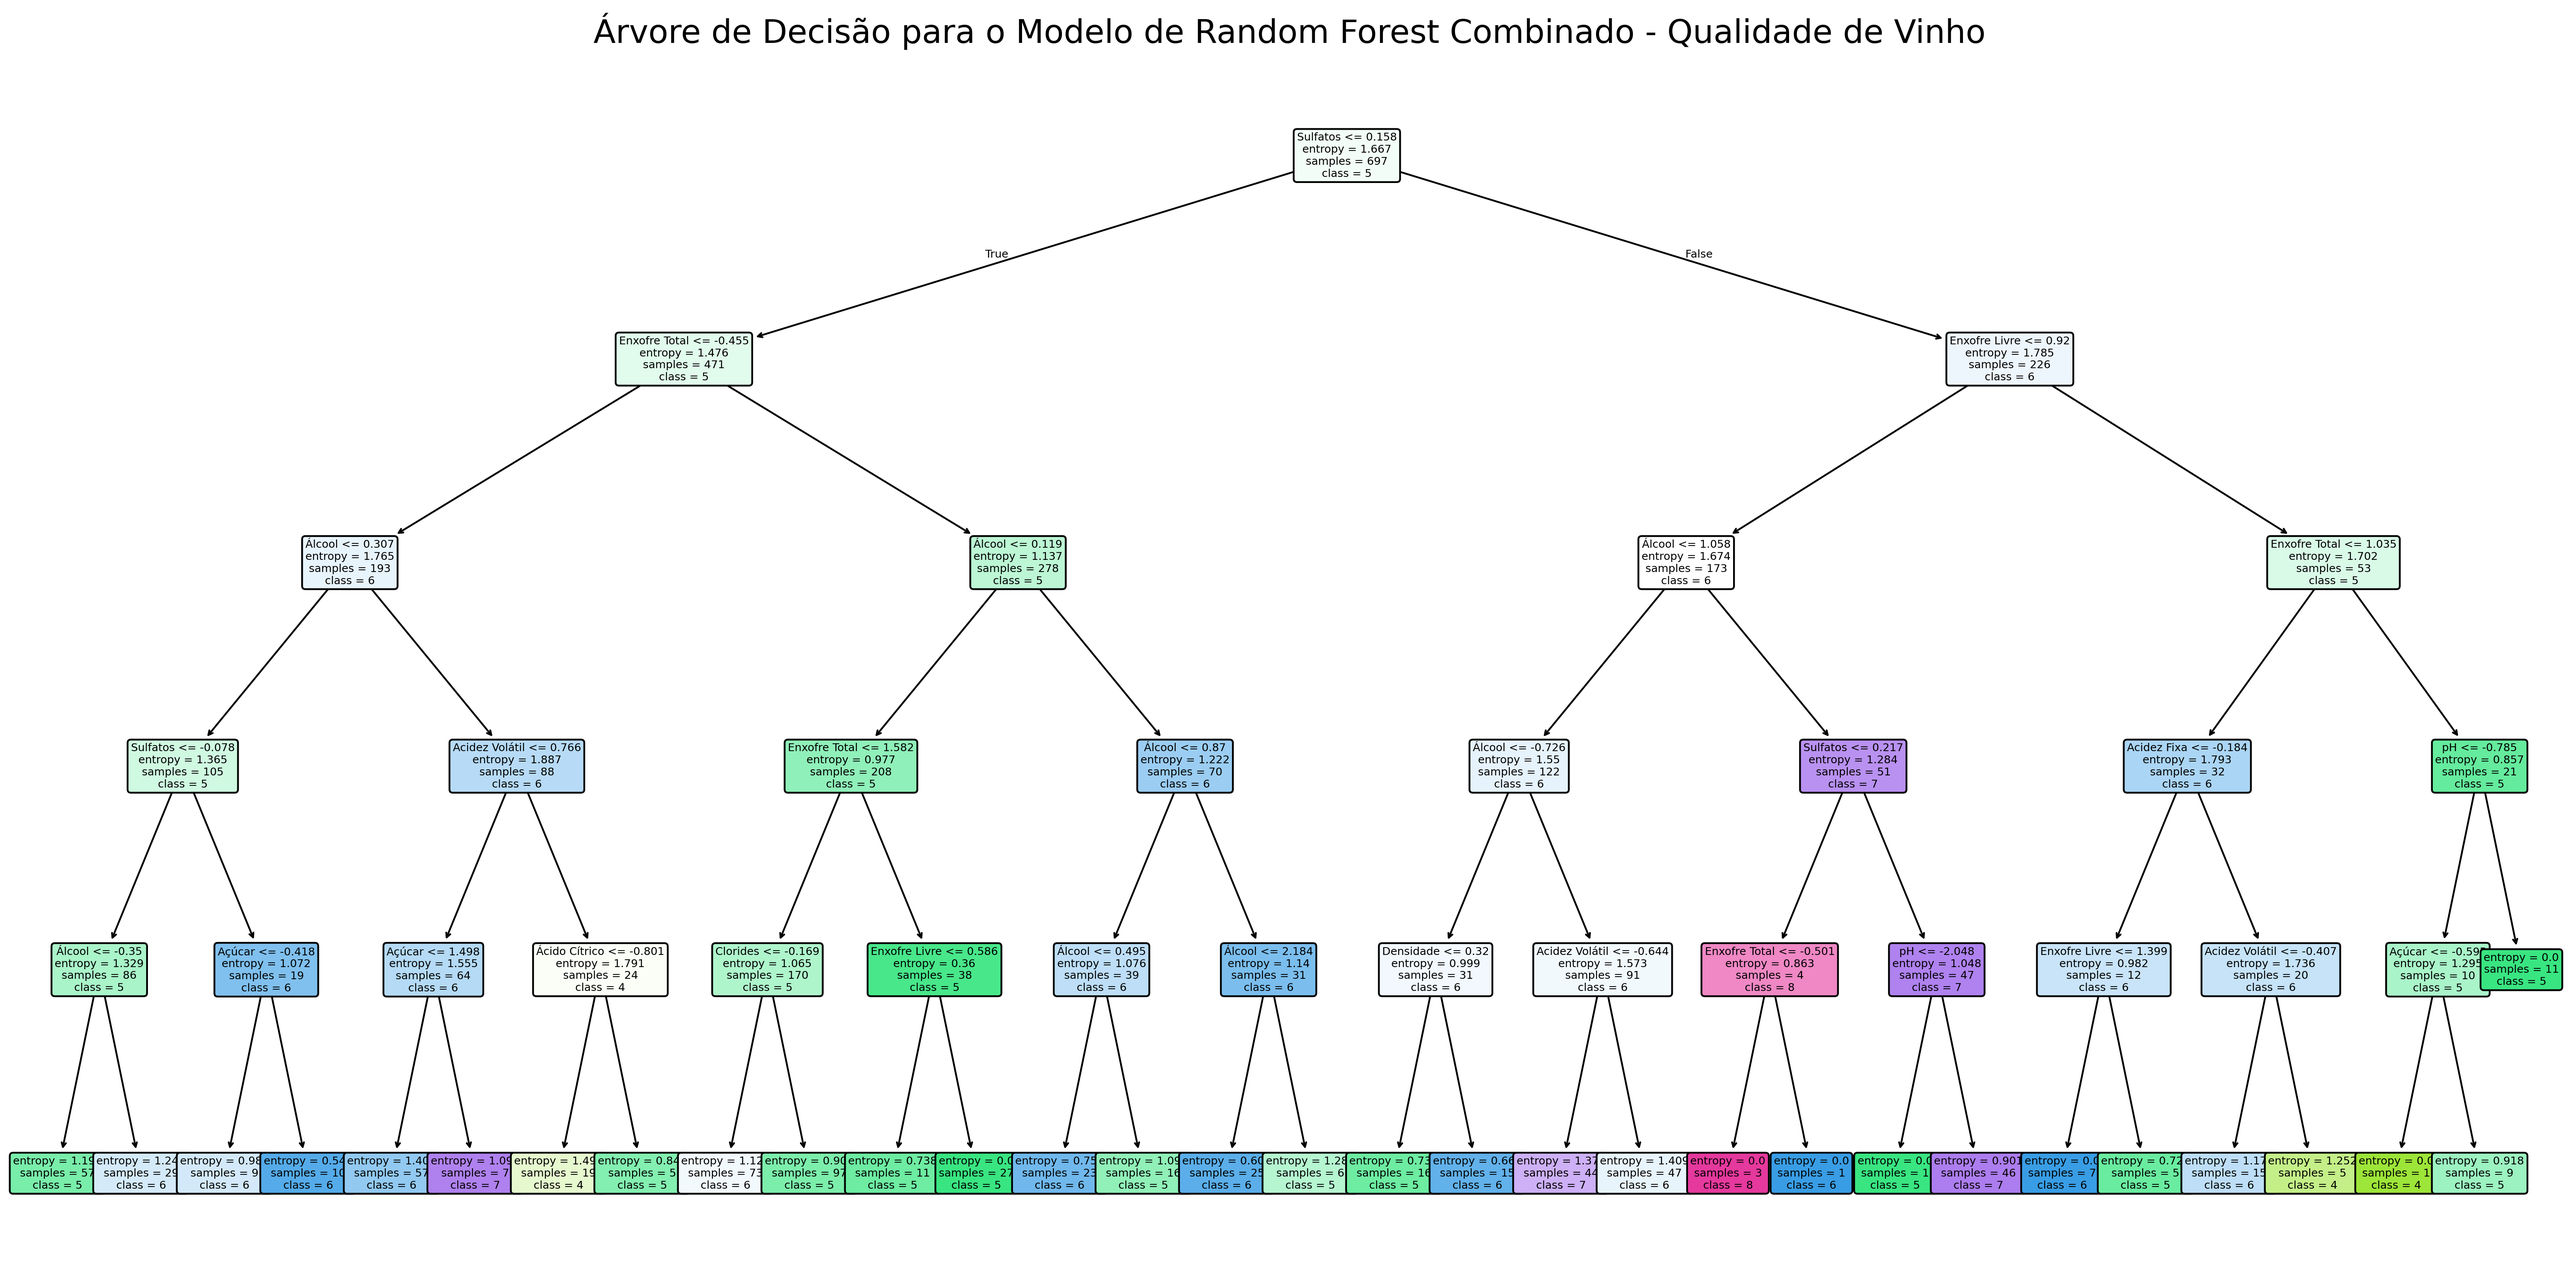
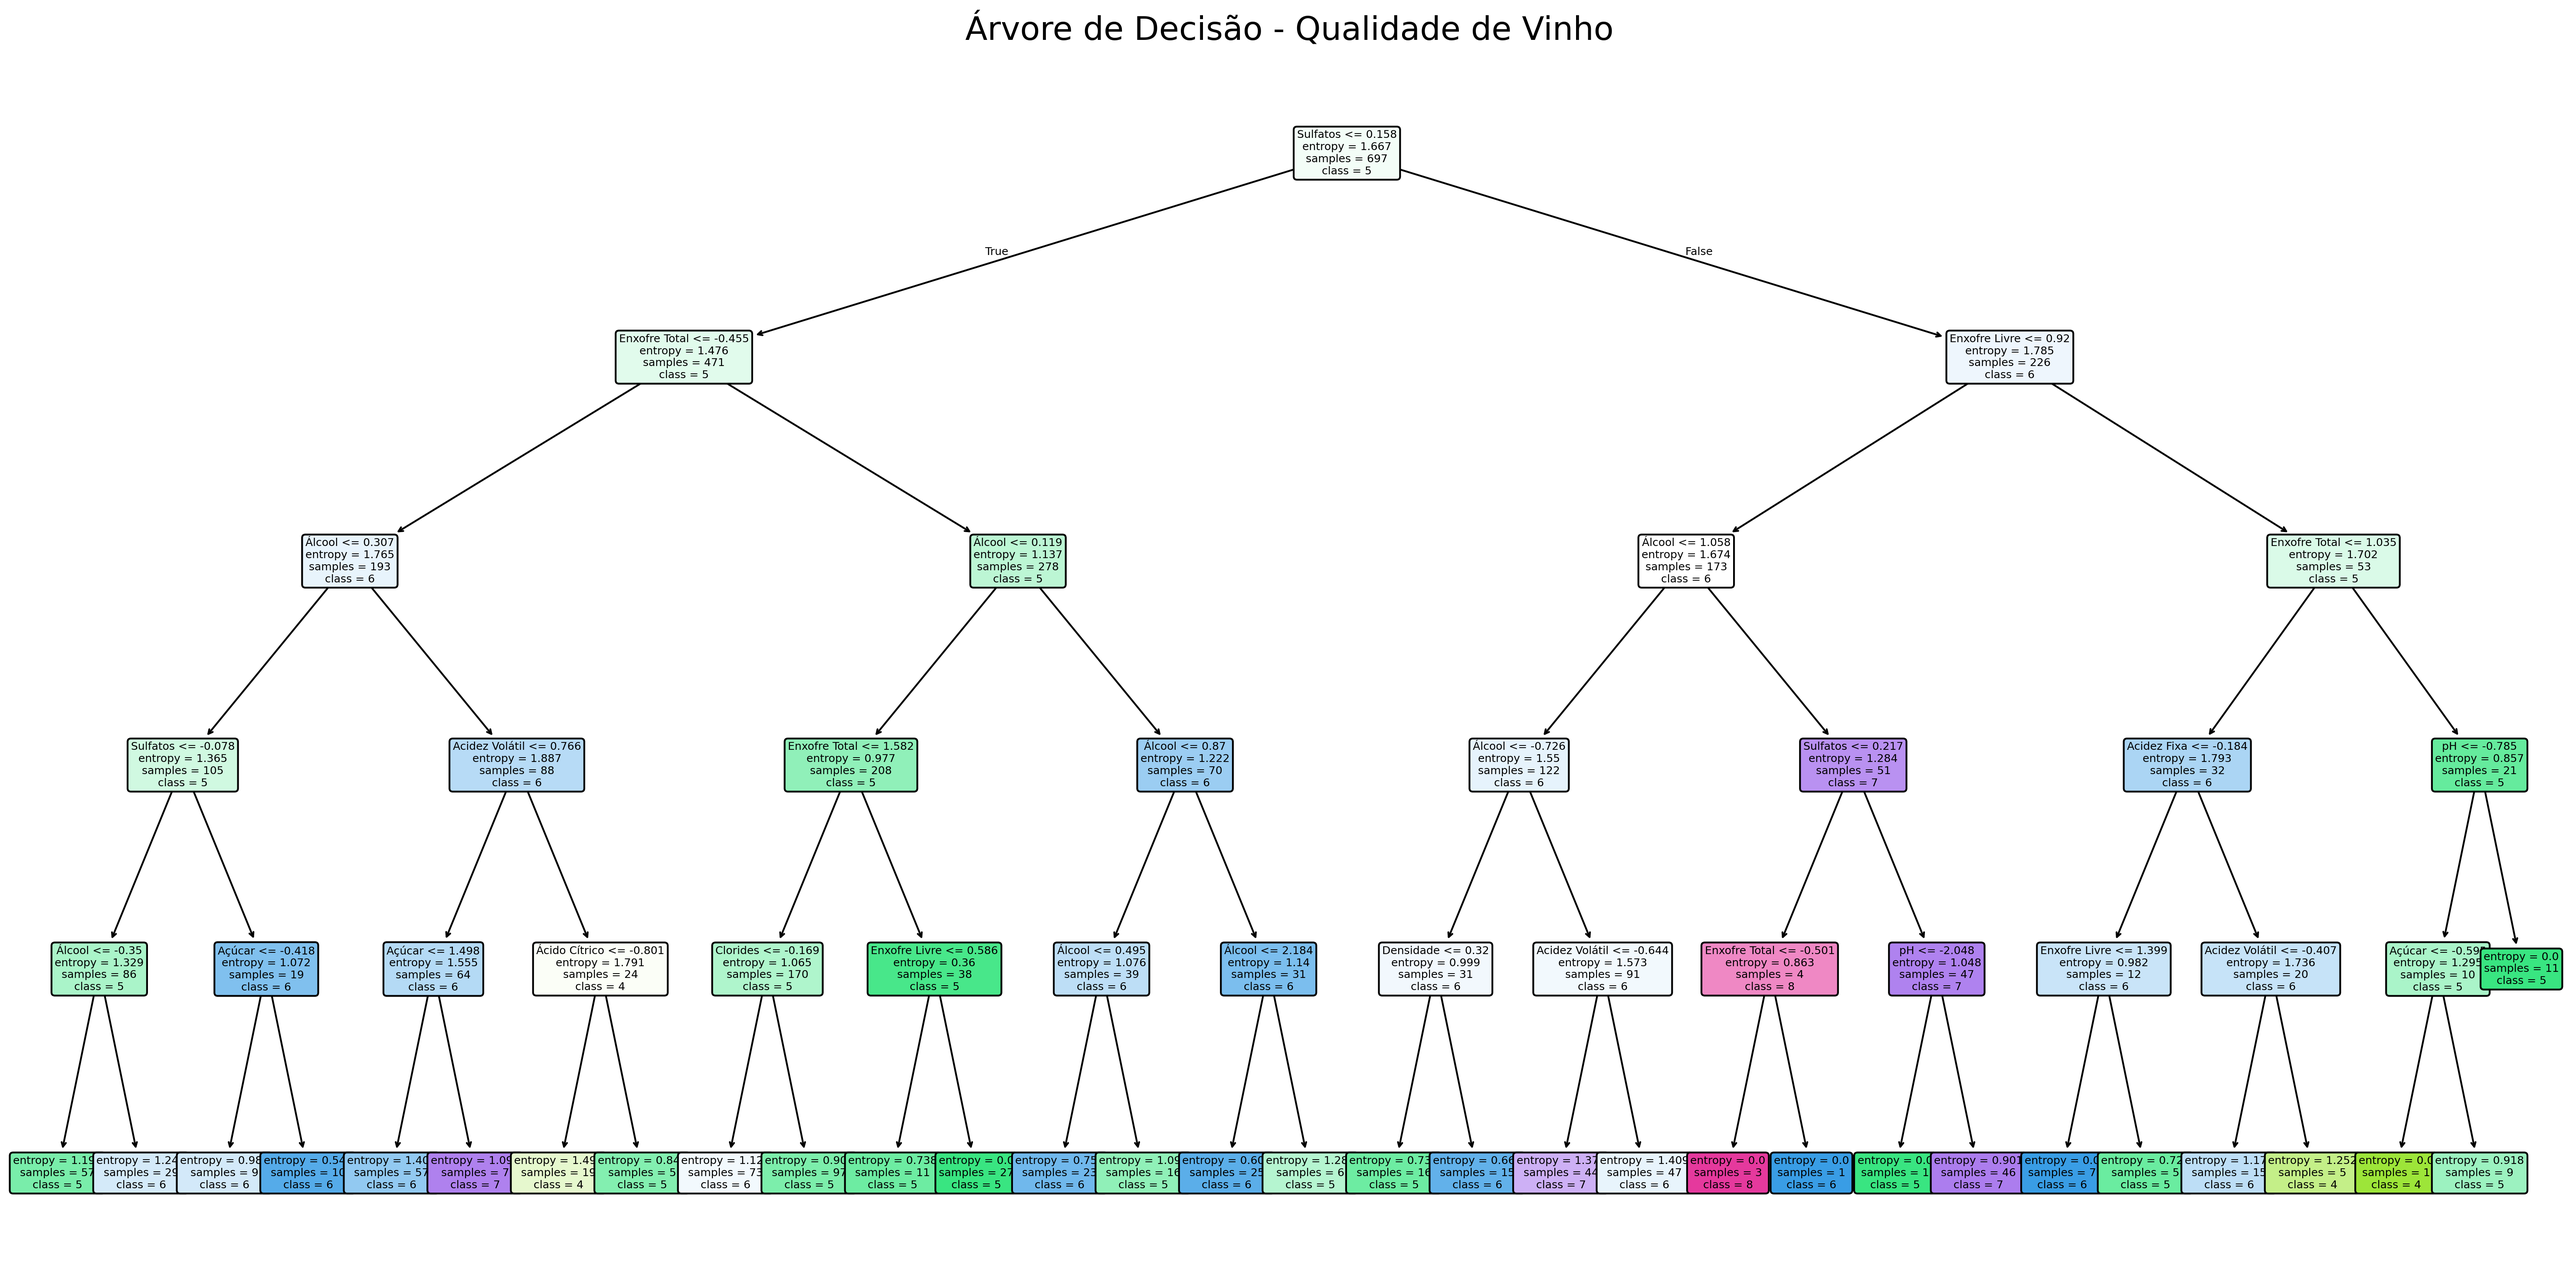
Arvore de decisão

diff --git a/pages/page4.py b/pages/page4.py
@@ -11,7 +11,9 @@ from sklearn.tree import plot_tree
 import pickle
 import streamlit as st
 from sklearn.model_selection import train_test_split
-
+from sklearn.preprocessing import StandardScaler
+import streamlit as st
+from PIL import Image
 
 def main():
     # Configurações da aba
@@ -19,103 +21,115 @@ def main():
         page_title="Vinícola",  # Nome da aba
         page_icon=":wine_glass:",  # Emoji de vinho para a aba
     )
-    st.title("Graficos de linhas")
+    st.title("Machine Learning - Qualidade de Vinhos")
+    
 
-# Base de dados de vinhos
-base_wine_red = pd.read_csv('Data/winequality-red.csv')
-base_combined_wine= pd.read_csv('Data/winequality-red.csv')
-base_wine_white = pd.read_csv('Data/df_white.csv')
-
-
-# Selecione todas as linhas e colunas, exceto a última coluna (que é a qualidade)
-x_wine_red = base_wine_red.iloc[:, :-1]
-x_wine_combined = base_combined_wine.iloc[:, :-1]
-x_wine_white = base_wine_white.iloc[:, :-1]
-
-# Selecione todas as linhas e apenas a última coluna (que é a qualidade)
-
-y_wine_red = base_wine_red.iloc[:, -1]
-y_wine_combined = base_combined_wine.iloc[:, -1]
-y_wine_white = base_wine_white.iloc[:, -1]
+    # Base de dados de vinhos
+    base_wine_red = pd.read_csv('Data/winequality-red.csv')
+    base_combined_wine= pd.read_csv('Data/winequality-red.csv')
+    base_wine_white = pd.read_csv('Data/df_white.csv')
 
 
+    # Selecione todas as linhas e colunas, exceto a última coluna (que é a qualidade)
+    x_wine_red = base_wine_red.iloc[:, :-1]
+    x_wine_combined = base_combined_wine.iloc[:, :-1]
+    x_wine_white = base_wine_white.iloc[:, :-1]
 
-# Normalização dos dados
+    # Selecione todas as linhas e apenas a última coluna (que é a qualidade)
 
-scaler_wine = StandardScaler()
-
-x_wine_red = scaler_wine.fit_transform(x_wine_red)
-x_wine_combined = scaler_wine.fit_transform(x_wine_combined)
-x_wine_white = scaler_wine.fit_transform(x_wine_white)
-
-
-# Dividindo a base de dados em treinamento e teste
-
-x_wine_red_treinamento, x_wine_red_teste, y_wine_red_treinamento, y_wine_red_teste =train_test_split(x_wine_red, y_wine_red, test_size=0.3, random_state=0)
-x_wine_combined_treinamento, x_wine_combined_teste, y_wine_combined_treinamento, y_wine_combined_teste =train_test_split(x_wine_combined, y_wine_combined, test_size=0.3, random_state=0)
-x_wine_white_treinamento, x_wine_white_teste, y_wine_white_treinamento, y_wine_white_teste =train_test_split(x_wine_white, y_wine_white, test_size=0.3, random_state=0)
-
-
-print('Base de treinamento:', x_wine_red_treinamento.shape)
-print('Base de teste:', x_wine_red_teste.shape)
-print('Base de treinamento:', x_wine_combined_treinamento.shape) 
-
-
-# Salvando os dados em um arquivo
-
-with open('wine_red.pkl', mode='wb') as f:
-    pickle.dump([x_wine_red_treinamento, y_wine_red_treinamento, x_wine_red_teste, y_wine_red_teste], f)
-
-with open('wine_combined.pkl', mode='wb') as f:
-    pickle.dump([x_wine_combined_treinamento, y_wine_combined_treinamento, x_wine_combined_teste, y_wine_combined_teste], f)
-
-with open('wine_white.pkl', mode='wb') as f:
-    pickle.dump([x_wine_white_treinamento, y_wine_white_treinamento, x_wine_white_teste, y_wine_white_teste], f)    
+    y_wine_red = base_wine_red.iloc[:, -1]
+    y_wine_combined = base_combined_wine.iloc[:, -1]
+    y_wine_white = base_wine_white.iloc[:, -1]
 
 
 
-# Criação do modelo
+    # Normalização dos dados
 
-random_forest_wine_red = RandomForestClassifier(n_estimators=100, random_state=0, criterion='entropy')
-random_forest_wine_combined = RandomForestClassifier(n_estimators=1000, max_depth=5, random_state=0, criterion='entropy')
-random_forest_wine_white = RandomForestClassifier(n_estimators=100, random_state=0, criterion='entropy')
+    scaler_wine = StandardScaler()
 
-
-# Treinamento do modelo
-random_forest_wine_red.fit(x_wine_red_treinamento, y_wine_red_treinamento)
-random_forest_wine_combined.fit(x_wine_combined_treinamento, y_wine_combined_treinamento)
-random_forest_wine_white.fit(x_wine_white_treinamento, y_wine_white_treinamento)
+    x_wine_red = scaler_wine.fit_transform(x_wine_red)
+    x_wine_combined = scaler_wine.fit_transform(x_wine_combined)
+    x_wine_white = scaler_wine.fit_transform(x_wine_white)
 
 
-previsao_red= random_forest_wine_red.predict(x_wine_red_teste)
-previsao_combined= random_forest_wine_combined.predict(x_wine_combined_teste)
-previsao_white= random_forest_wine_white.predict(x_wine_white_teste)
+    # Dividindo a base de dados em treinamento e teste
 
-print('Acurácia Vermelho:', accuracy_score(y_wine_red_teste, previsao_red))
-print('Acurácia combinado:', accuracy_score(y_wine_combined_teste, previsao_combined))
-print('Acurácia Branco:', accuracy_score(y_wine_white_teste, previsao_white))
-#precisão de 67.29% na primeira tentativa do combined
-
-#grafico da arvore de decisão
-plt.figure(figsize=(20, 10))
-plot_tree(random_forest_wine_combined.estimators_[0], 
-        feature_names=['Acidez Fixa', 'Acidez Volátil', 'Ácido Cítrico', 'Açúcar', 'Clorides', 'Enxofre Livre', 'Enxofre Total', 'Densidade', 'pH', 'Sulfatos', 'Álcool'],
-        filled=True, 
-        fontsize=6, 
-        rounded=True,
-        class_names=[str(i) for i in range(3, 10)])
+    x_wine_red_treinamento, x_wine_red_teste, y_wine_red_treinamento, y_wine_red_teste =train_test_split(x_wine_red, y_wine_red, test_size=0.3, random_state=0)
+    x_wine_combined_treinamento, x_wine_combined_teste, y_wine_combined_treinamento, y_wine_combined_teste =train_test_split(x_wine_combined, y_wine_combined, test_size=0.3, random_state=0)
+    x_wine_white_treinamento, x_wine_white_teste, y_wine_white_treinamento, y_wine_white_teste =train_test_split(x_wine_white, y_wine_white, test_size=0.3, random_state=0)
 
 
+    print('Base de treinamento:', x_wine_red_treinamento.shape)
+    print('Base de teste:', x_wine_red_teste.shape)
+    print('Base de treinamento:', x_wine_combined_treinamento.shape) 
 
-# Personalize o texto das caixas
-for texto in plt.gca().texts:
-    linhas = texto.get_text().split('\n')
-    nova_linha = [linha for linha in linhas if not linha.startswith('value')]
-    texto.set_text('\n'.join(nova_linha))
+
+    # Salvando os dados em um arquivo
+
+    with open('wine_red.pkl', mode='wb') as f:
+        pickle.dump([x_wine_red_treinamento, y_wine_red_treinamento, x_wine_red_teste, y_wine_red_teste], f)
+
+    with open('wine_combined.pkl', mode='wb') as f:
+        pickle.dump([x_wine_combined_treinamento, y_wine_combined_treinamento, x_wine_combined_teste, y_wine_combined_teste], f)
+
+    with open('wine_white.pkl', mode='wb') as f:
+        pickle.dump([x_wine_white_treinamento, y_wine_white_treinamento, x_wine_white_teste, y_wine_white_teste], f)    
 
 
 
-plt.title('Árvore de Decisão para o Modelo de Random Forest Combinado - Qualidade de Vinho', fontsize=18)
-plt.tight_layout()  # Ajustando layout para evitar que os rótulos sejam cortados
-plt.savefig('arvore_combinada', dpi=300, bbox_inches='tight')  # Salva a imagem como 'arvore_decisao.png'
-plt.show()
+    # Criação do modelo
+
+    random_forest_wine_red = RandomForestClassifier(n_estimators=100, random_state=0, criterion='entropy')
+    random_forest_wine_combined = RandomForestClassifier(n_estimators=10000, random_state=0, criterion='entropy')
+    random_forest_wine_white = RandomForestClassifier(n_estimators=100, random_state=0, criterion='entropy')
+
+
+    # Treinamento do modelo
+    random_forest_wine_red.fit(x_wine_red_treinamento, y_wine_red_treinamento)
+    random_forest_wine_combined.fit(x_wine_combined_treinamento, y_wine_combined_treinamento)
+    random_forest_wine_white.fit(x_wine_white_treinamento, y_wine_white_treinamento)
+
+
+    previsao_red= random_forest_wine_red.predict(x_wine_red_teste)
+    previsao_combined= random_forest_wine_combined.predict(x_wine_combined_teste)
+    previsao_white= random_forest_wine_white.predict(x_wine_white_teste)
+
+    #print('Acurácia Vermelho:', accuracy_score(y_wine_red_teste, previsao_red))
+    #print('Acurácia combinado:', accuracy_score(y_wine_combined_teste, previsao_combined))
+    #print('Acurácia Branco:', accuracy_score(y_wine_white_teste, previsao_white))
+    #precisão de 68.75% na primeira tentativa do combined
+
+    #grafico da arvore de decisão
+    plt.figure(figsize=(20, 10))
+    plot_tree(random_forest_wine_combined.estimators_[0], 
+            feature_names=['Acidez Fixa', 'Acidez Volátil', 'Ácido Cítrico', 'Açúcar', 'Clorides', 'Enxofre Livre', 'Enxofre Total', 'Densidade', 'pH', 'Sulfatos', 'Álcool'],
+            filled=True, 
+            fontsize=6, 
+            rounded=True,
+            class_names=[str(i) for i in range(3, 10)])
+
+    for texto in plt.gca().texts:
+        linhas = texto.get_text().split('\n')
+        nova_linha = [linha for linha in linhas if not linha.startswith('value')]
+        texto.set_text('\n'.join(nova_linha))
+
+
+
+    plt.title('Árvore de Decisão - Qualidade de Vinho', fontsize=18)
+    plt.tight_layout()  # Ajustando layout para evitar que os rótulos sejam cortados
+    #plt.savefig('arvore_combinada', dpi=300, bbox_inches='tight')  # Salva a imagem como 'arvore_combinada.png'
+    plt.show()
+
+    imagem = Image.open("arvore_combinada.png")
+
+    st.image(imagem, width=None,  use_container_width=True)
+
+    
+    st.write("""
+    Ao usar o modelo de arvore de decisão, obtivemos o resultado de 70%. 
+    A entropia é calculada como a soma das probabilidades de cada classe multiplicadas pelo logaritmo da probabilidade. Quanto maior a entropia, maior a incerteza do conjunto de dados.
+    A árvore de decisão combinada é uma técnica que combina várias árvores de decisão para melhorar a precisão do modelo. Cada árvore de decisão é treinada em um subconjunto dos dados e, em seguida, as previsões são combinadas para produzir a previsão final.
+    """)
+        
+if __name__ == '__main__':
+        main() 

diff --git a/pages/page3.py b/pages/page3.py
@@ -2,7 +2,7 @@ import streamlit as st
 import pandas as pd
 import matplotlib.pyplot as plt
 import seaborn as sns
-from csv_to_parquet import conversor
+from Projeto.csv_to_parquet import conversor
 
 def main():
         # Configurações da aba
@@ -15,11 +15,11 @@ def main():
         st.title("Análise da Qualidade de Vinhos: Explorando correlação entre variáveis")
 
         # Caminho para o seu arquivo CSV e parquet
-        red = conversor(R'D:\PH\GitHub\dataset-analysis\Data\winequality-red.csv' , R'D:\PH\GitHub\dataset-analysis\Data\red.parquet')  # Substitua pelo caminho do seu pc
-        white = conversor(R'D:\PH\GitHub\dataset-analysis\Data\winequality-white.csv', R'D:\PH\GitHub\dataset-analysis\Data\white.parquet')# Substitua pelo caminho do seu pc
+        red = conversor(R'Data\winequality-red.csv' , R'Data\red.parquet')  # Substitua pelo caminho do seu pc
+        white = conversor(R'Data\winequality-white.csv', R'Data\white.parquet')# Substitua pelo caminho do seu pc
 
         # Ler arquivos parquet
-        df_white = pd.read_csv(R'D:\PH\GitHub\dataset-analysis\Data\winequality-white.csv', sep=';')
+        df_white = pd.read_csv(R'Data\winequality-white.csv', sep=';')
         print(df_white.head())
 
         df_red = pd.read_parquet(red)
@@ -139,8 +139,4 @@ def main():
         st.pyplot(lmplot.fig)
 
 if __name__ == '__main__':
-<<<<<<< Updated upstream
         main() 
-=======
-        main() 
->>>>>>> Stashed changes

diff --git a/pages/page2.py b/pages/page2.py
@@ -13,8 +13,8 @@ def main():
     st.title("Graficos de linhas")
 
     # Caminho para o seu arquivo CSV e parquet
-    red = conversor(R'C:\Users\ianli\OneDrive\Área de Trabalho\projeto 3\dataset-analysis\Data\winequality-red.csv', R'C:\Users\ianli\OneDrive\Área de Trabalho\projeto 3\dataset-analysis\Data\red.parquet')
-    white = conversor(R'C:\Users\ianli\OneDrive\Área de Trabalho\projeto 3\dataset-analysis\Data\df_white.csv', R'C:\Users\ianli\OneDrive\Área de Trabalho\projeto 3\dataset-analysis\Data\white.parquet')
+    red = conversor(R'Data\winequality-red.csv', R'Data\red.parquet')
+    white = conversor(R'Data\df_white.csv', R'Data\white.parquet')
 
     # Ler arquivos parquet
     df_white = pd.read_parquet(white)
@@ -160,5 +160,5 @@ def main():
     st.caption("Vinhos Brancos: um menor nível de acidez fixa está associado a uma qualidade percebida como mais alta")
 
     
-if __name__ == '__main__':
-    main() 
+    if __name__ == '__main__':
+        main() 

diff --git a/main.py b/main.py
@@ -1,5 +1,4 @@
 import streamlit as st
-<<<<<<< Updated upstream
 import pandas as pd
 import matplotlib.pyplot as plt
 import seaborn as sns
@@ -16,8 +15,8 @@ def main():
     st.title("Análise da Qualidade de Vinhos: Explorando correlação entre variáveis")
 
     # Caminho para o seu arquivo CSV e parquet
-    red = conversor(R'C:\Users\ianli\OneDrive\Área de Trabalho\projeto 3\dataset-analysis\Data\winequality-red.csv', R'C:\Users\ianli\OneDrive\Área de Trabalho\projeto 3\dataset-analysis\Data\red.parquet')
-    white = conversor(R'C:\Users\ianli\OneDrive\Área de Trabalho\projeto 3\dataset-analysis\Data\df_white.csv', R'C:\Users\ianli\OneDrive\Área de Trabalho\projeto 3\dataset-analysis\Data\white.parquet')
+    red = conversor(R'Data\winequality-red.csv', R'Data\red.parquet')
+    white = conversor(R'Data\df_white.csv', R'Data\white.parquet')
 
     # Ler arquivos parquet
     df_white = pd.read_parquet(white)

diff --git a/pages/page1.py b/pages/page1.py
@@ -13,8 +13,8 @@ def main():
     st.title("Graficos de barras")
 
     # Caminho para o seu arquivo CSV e parquet
-    red = conversor(R'C:\Users\ianli\OneDrive\Área de Trabalho\projeto 3\dataset-analysis\Data\winequality-red.csv', R'C:\Users\ianli\OneDrive\Área de Trabalho\projeto 3\dataset-analysis\Data\red.parquet')
-    white = conversor(R'C:\Users\ianli\OneDrive\Área de Trabalho\projeto 3\dataset-analysis\Data\df_white.csv', R'C:\Users\ianli\OneDrive\Área de Trabalho\projeto 3\dataset-analysis\Data\white.parquet')
+    red = conversor(R'Data\winequality-red.csv', R'Data\red.parquet')
+    white = conversor(R'Data\df_white.csv', R'Data\white.parquet')
 
     # Ler arquivos parquet
     df_white = pd.read_parquet(white)
